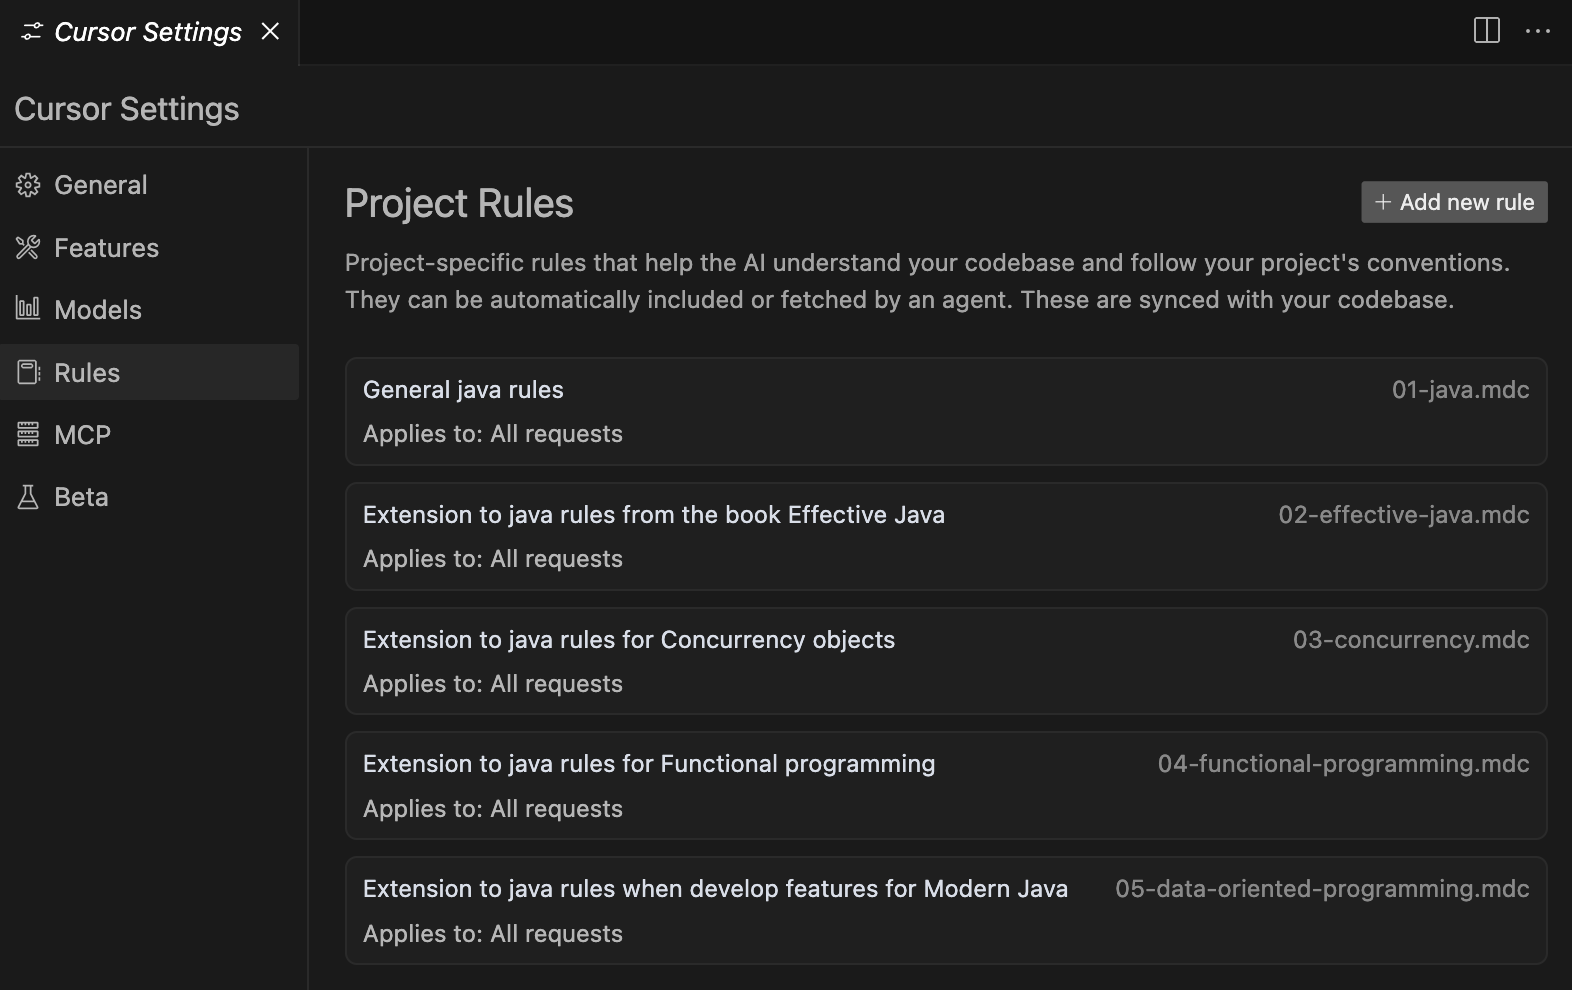
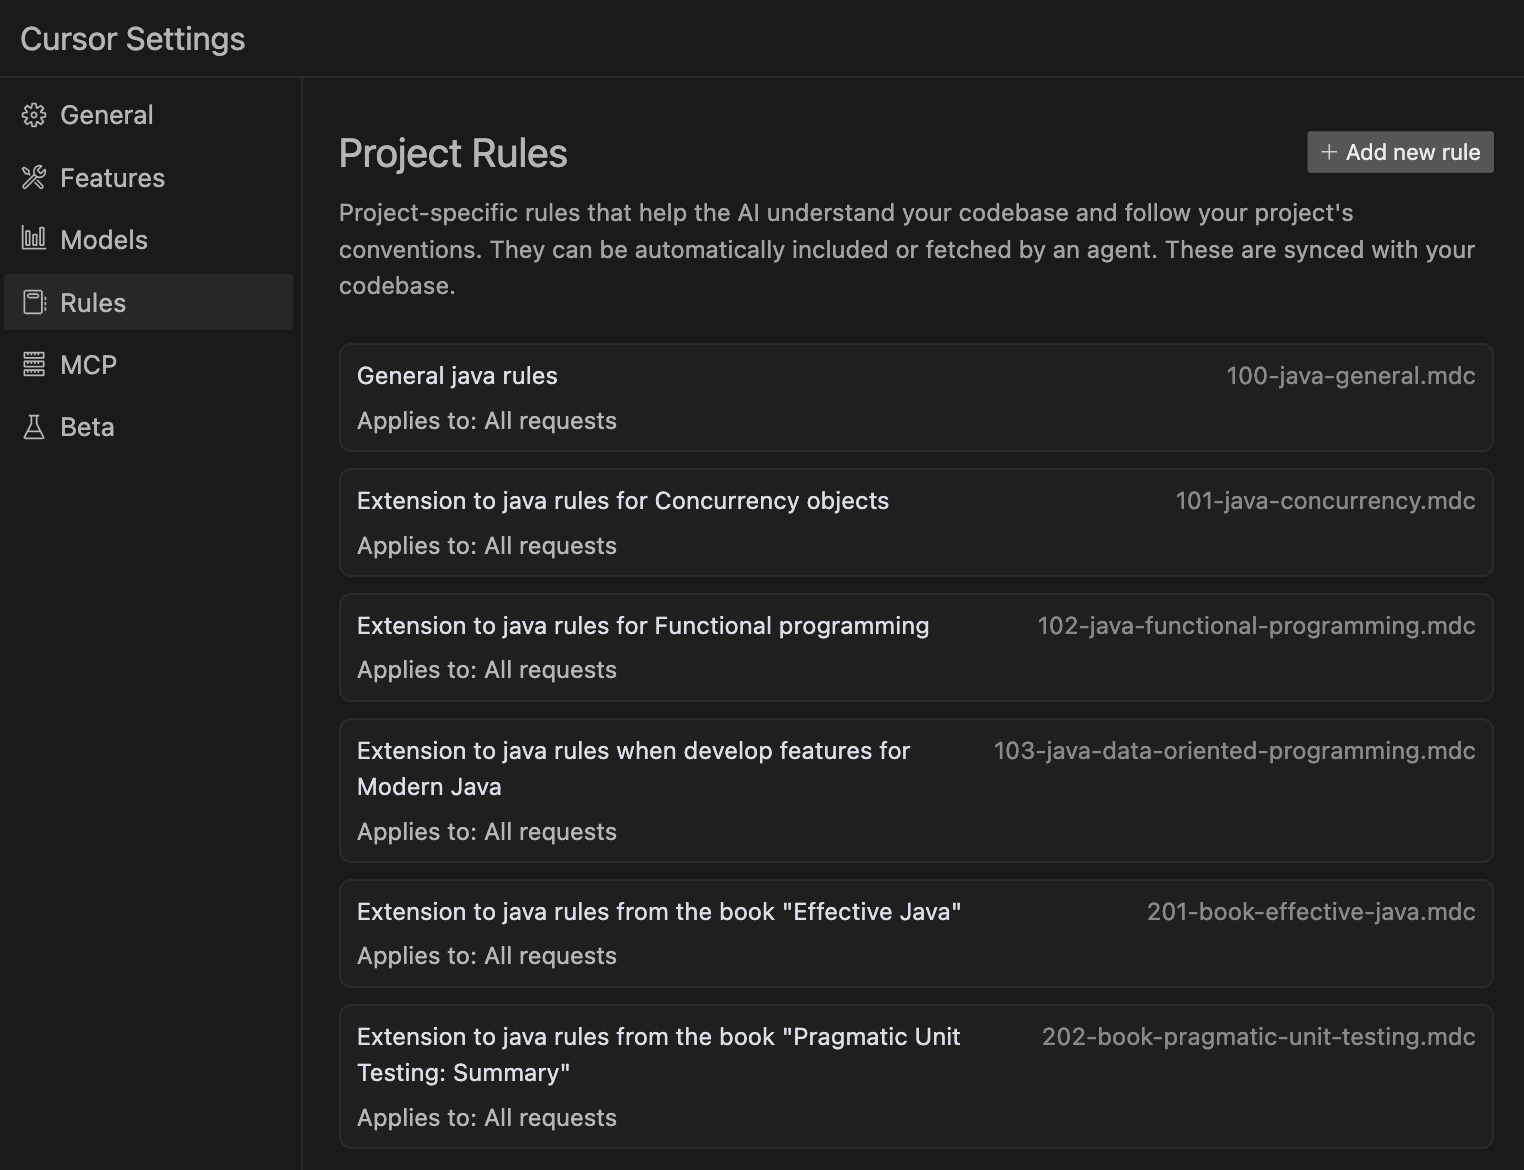
Improving the way to organize cursor rules (#2)
* Improving the way to organize cursor rules
* Updating README

diff --git a/README.md b/README.md
@@ -6,12 +6,12 @@ A collection of Cursor rules for Java space.
 
 ## Rules
 
-- [Java](.cursor/rules/01-java.mdc)
-- [Effective Java](.cursor/rules/02-effective-java.mdc)
-- [Concurrency](.cursor/rules/03-concurrency.mdc)
-- [Functional Programming](.cursor/rules/04-functional-programming.mdc)
-- [Data oriented programming](.cursor/rules/05-data-oriented-programming.mdc)
-- [Spring boot](.cursor/rules/06-spring-boot.mdc)
+- [Java](.cursor/rules/100-java-general.mdc)
+- [Concurrency](.cursor/rules/101-java-concurrency.mdc)
+- [Functional Programming](.cursor/rules/102-java-functional-programming.mdc)
+- [Data oriented programming](.cursor/rules/103-java-data-oriented-programming.mdc)
+- [Effective Java](.cursor/rules/201-book-effective-java.mdc)
+- [Pragmatic Unit Testing](.cursor/rules/202-book-pragmatic-unit-testing.mdc)
 
 ## References
 

diff --git a/.cursor/rules/302-framework-quarkus.md b/.cursor/rules/302-framework-quarkus.md
@@ -1,0 +1,1 @@
+# Quarkus
